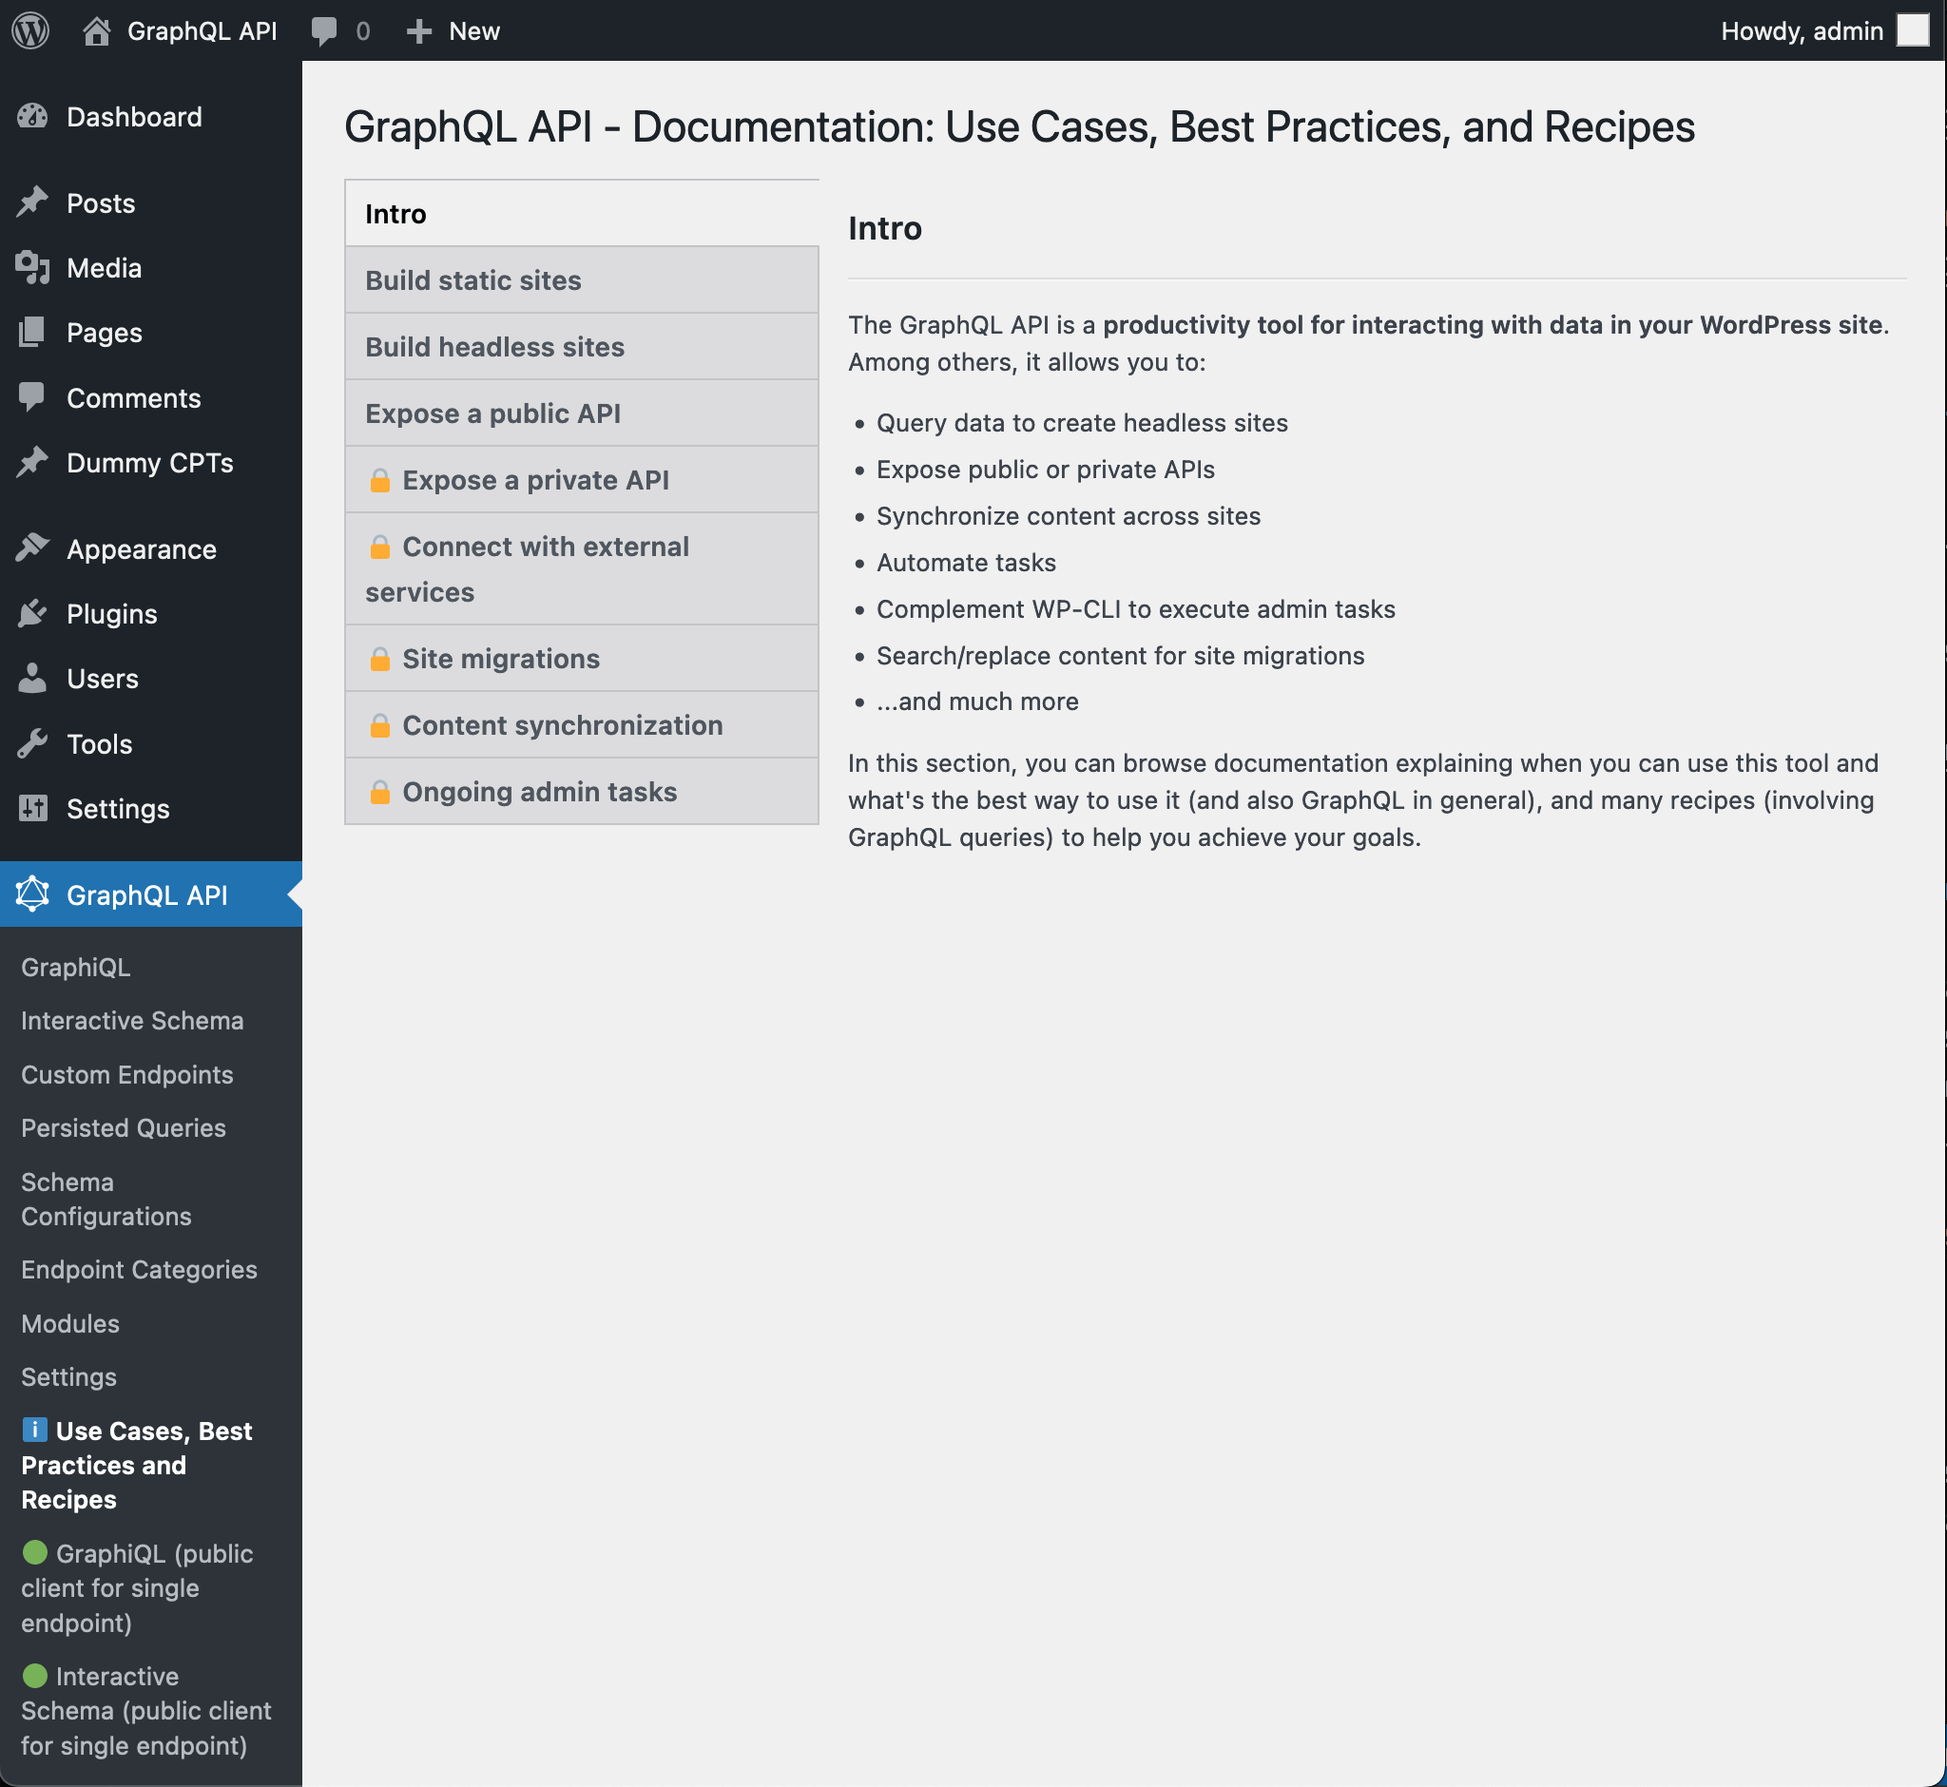
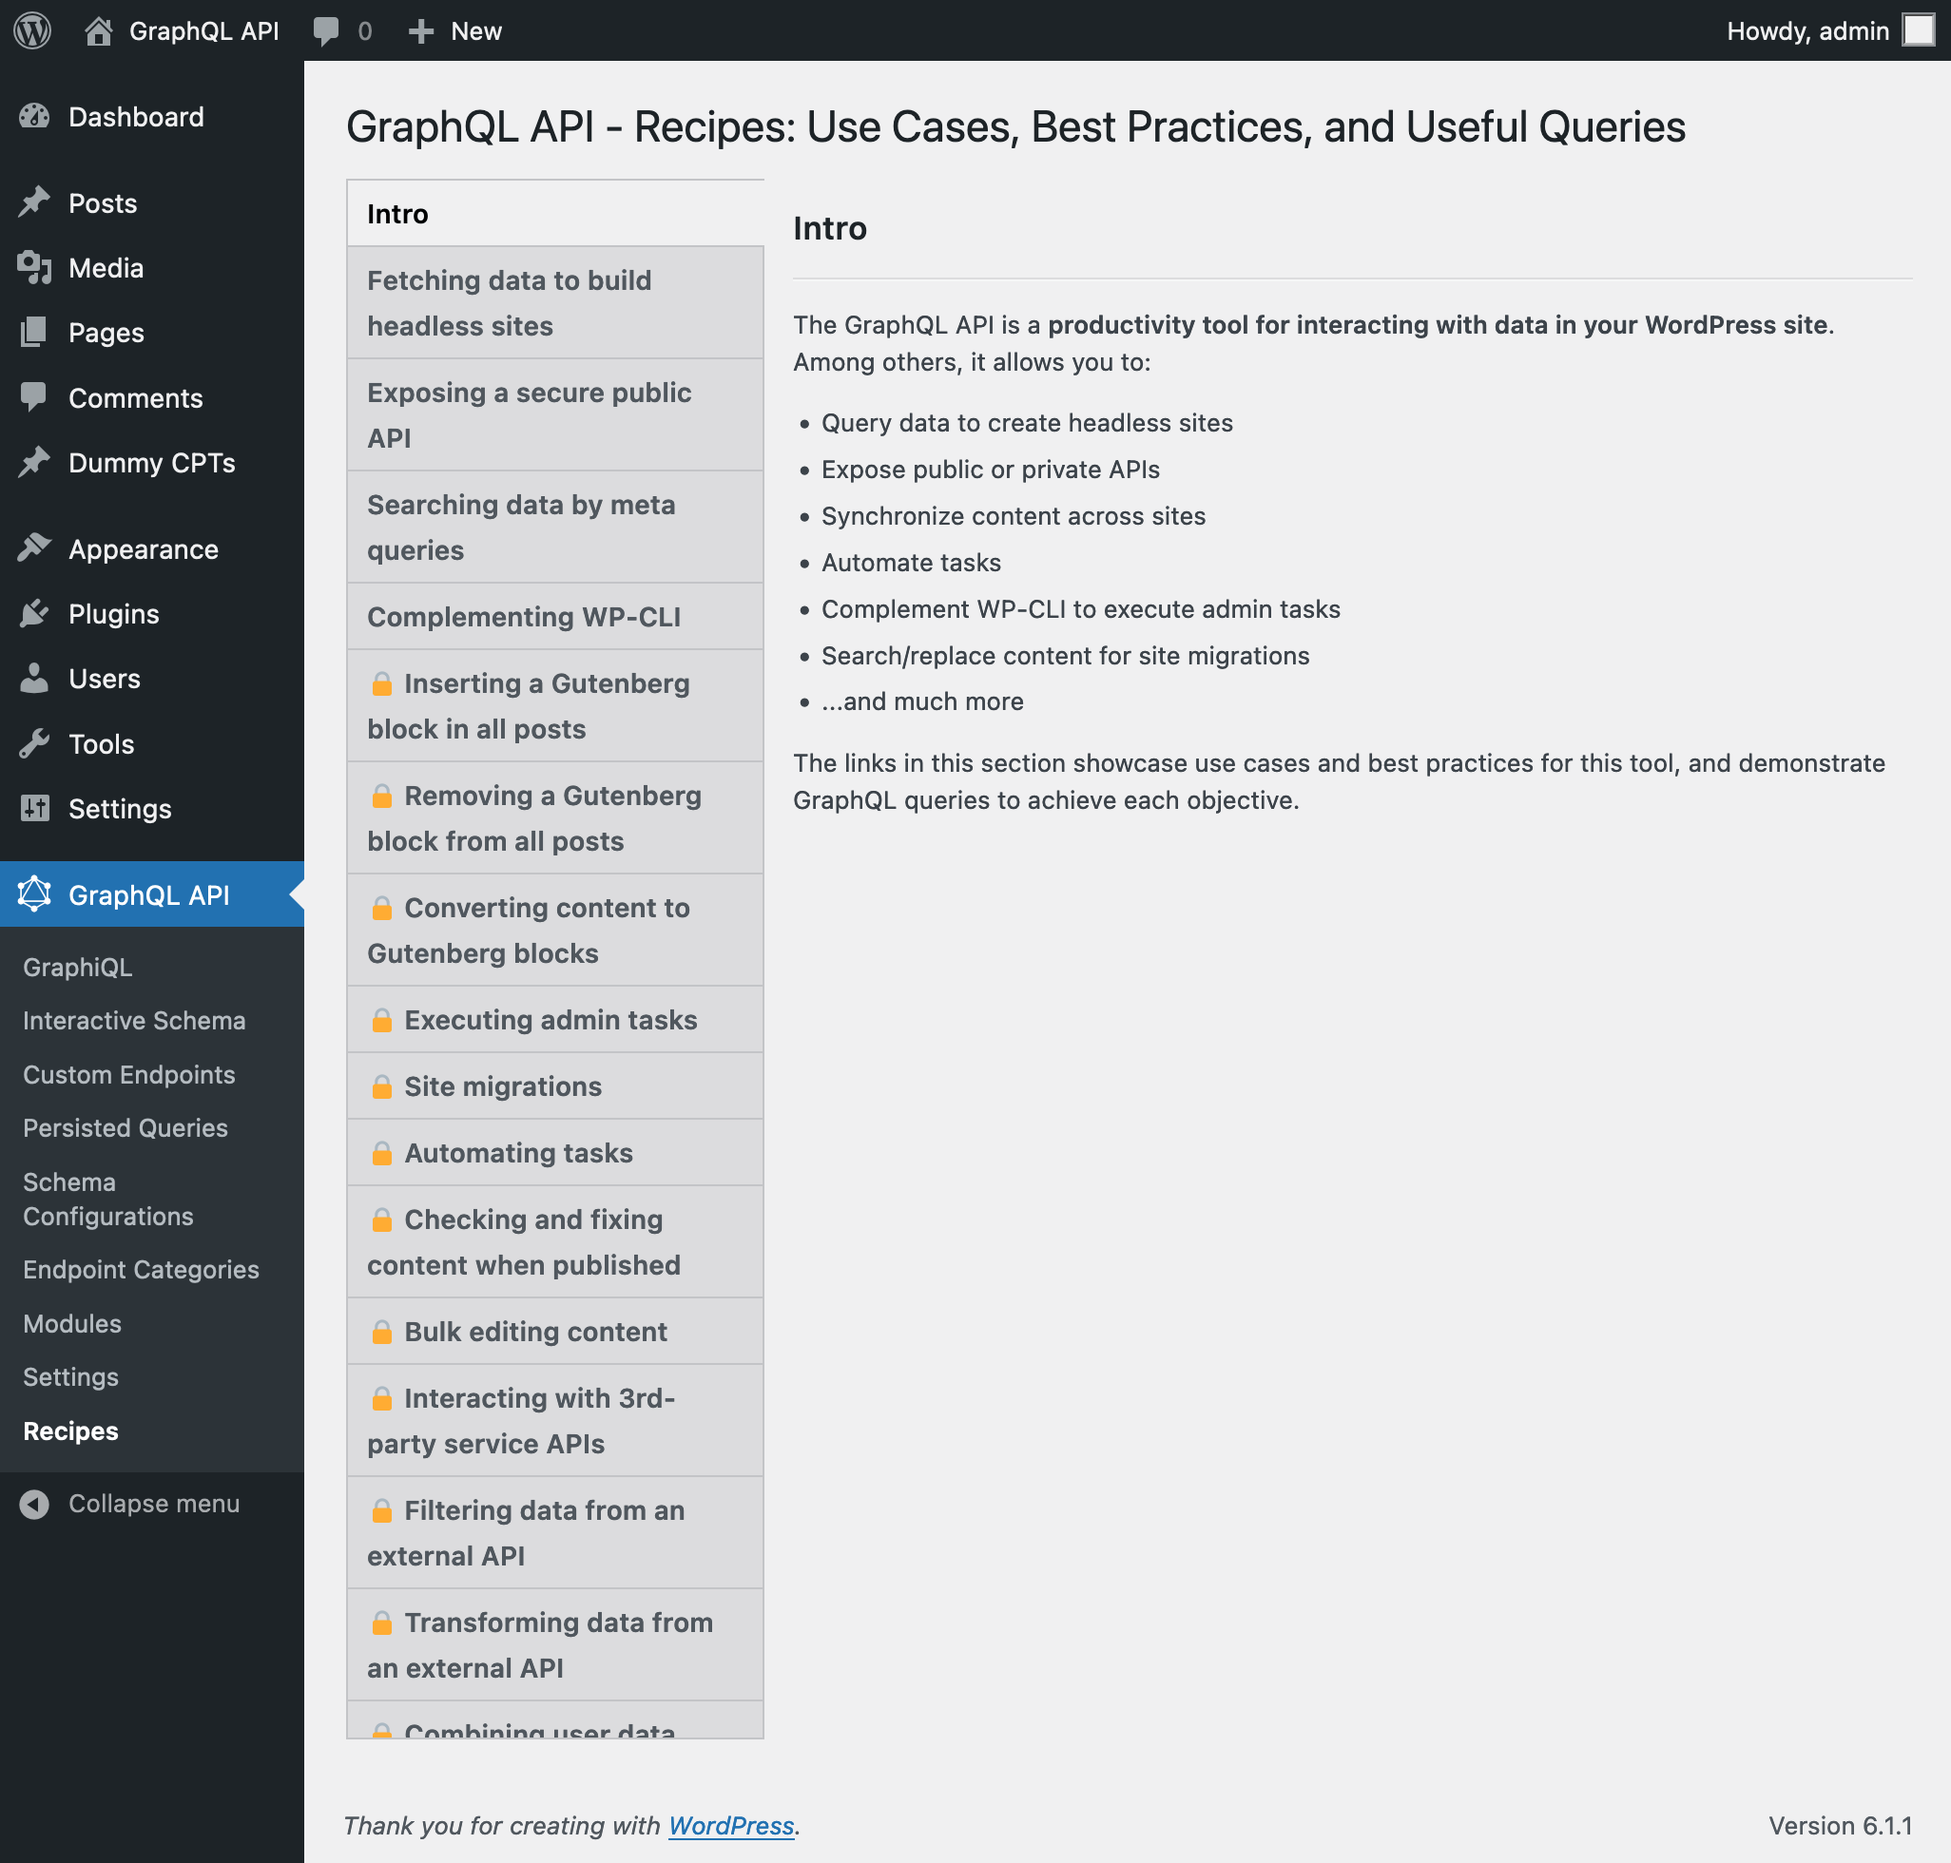
Merge pull request #2110 from leoloso/Create-list-of-all-recipes
Create list of all recipes

diff --git a/src/Services/MenuPages/RecipesMenuPage.php b/src/Services/MenuPages/RecipesMenuPage.php
@@ -34,23 +34,111 @@ class RecipesMenuPage extends AbstractDocsMenuPage
                 'Intro',
             ],
             [
-                'sample-recipe-1',
-                'Sample Recipe 1',
+                'fetching-data-to-build-headless-sites',
+                'Fetching data to build headless sites',
             ],
             [
-                'sample-recipe-2',
-                'Sample Recipe 2',
+                'exposing-a-secure-public-api',
+                'Exposing a secure public API',
             ],
             [
-                'sample-recipe-3',
-                'Sample Recipe 3',
+                'searching-data-by-meta-queries',
+                'Searching data by meta queries',
+            ],
+            [
+                'complementing-wp-cli',
+                'Complementing WP-CLI',
+            ],
+            [
+                'inserting-a-gutenberg-block-in-all-posts',
+                'Inserting a Gutenberg block in all posts',
                 true,
             ],
             [
-                'sample-recipe-4',
-                'Sample Recipe 4',
+                'removing-a-gutenberg-block-from-all-posts',
+                'Removing a Gutenberg block from all posts',
                 true,
             ],
+            [
+                'converting-content-to-gutenberg-blocks',
+                'Converting content to Gutenberg blocks',
+                true,
+            ],
+            [
+                'executing-admin-tasks',
+                'Executing admin tasks',
+                true,
+            ],
+            [
+                'site-migrations',
+                'Site migrations',
+                true,
+            ],
+            [
+                'automating-tasks',
+                'Automating tasks',
+                true,
+            ],
+            [
+                'checking-and-fixing-content-when-published',
+                'Checking and fixing content when published',
+                true,
+            ],
+            [
+                'bulk-editing-content',
+                'Bulk editing content',
+                true,
+            ],
+            [
+                'interacting-with-3rd-party-service-apis',
+                'Interacting with 3rd-party service APIs',
+                true,
+            ],
+            [
+                'filtering-data-from-an-external-api',
+                'Filtering data from an external API',
+                true,
+            ],
+            [
+                'transforming-data-from-an-external-api',
+                'Transforming data from an external API',
+                true,
+            ],
+            [
+                'combining-user-data-from-different-systems',
+                'Combining user data from different systems',
+                true,
+            ],
+            [
+                'importing-a-post-from-another-site',
+                'Importing a post from another site',
+                true,
+            ],
+            [
+                'importing-multiple-posts-at-once-from-another-site',
+                'Importing multiple posts at once from another site',
+                true,
+            ],
+            [
+                'synchronizing-content-across-wordpress-sites',
+                'Synchronizing content across WordPress sites',
+                true,
+            ],
+            [
+                'retrieving-and-downloading-github-artifacts',
+                'Retrieving and downloading GitHub Artifacts',
+                true,
+            ],
+            [
+                'reverting-mutations-in-case-of-error',
+                'Reverting mutations in case of error',
+                true,
+            ],
+            [
+                'using-the-graphql-server-without-wordpress',
+                'Using the GraphQL server without WordPress',
+                true,
+            ],            
         ];
         // By default, focus on the first recipe
         $activeRecipeName = $recipeEntries[0][0];

diff --git a/docs/recipes/intro/en.md b/docs/recipes/intro/en.md
@@ -10,6 +10,4 @@ The GraphQL API is a **productivity tool for interacting with data in your WordP
 - Search/replace content for site migrations
 - ...and much more
 
-Click on the links in this section to learn about use cases for this tool and several best practices (including for GraphQL in general).
-
-Whenever appropriate, GraphQL queries (and additional PHP code, setups, integrations and others) are included; copy/paste them in your own persisted queries, to help you achieve your goals faster.
+The links in this section showcase use cases and best practices for this tool, and demonstrate GraphQL queries to achieve each objective.

diff --git a/docs-pro/recipes/importing-multiple-posts-at-once-from-another-site/en.md b/docs-pro/recipes/importing-multiple-posts-at-once-from-another-site/en.md
@@ -1,0 +1,1 @@
+# Importing multiple posts at once from another site

diff --git a/docs-pro/recipes/synchronizing-content-across-wordpress-sites/en.md b/docs-pro/recipes/synchronizing-content-across-wordpress-sites/en.md
@@ -1,0 +1,1 @@
+# Synchronizing content across WordPress sites

diff --git a/docs-pro/recipes/retrieving-and-downloading-github-artifacts/en.md b/docs-pro/recipes/retrieving-and-downloading-github-artifacts/en.md
@@ -1,0 +1,1 @@
+# Retrieving and downloading GitHub Artifacts

diff --git a/docs-pro/recipes/checking-and-fixing-content-when-published/en.md b/docs-pro/recipes/checking-and-fixing-content-when-published/en.md
@@ -1,0 +1,1 @@
+# Checking and fixing content when published

diff --git a/docs-pro/recipes/combining-user-data-from-different-systems/en.md b/docs-pro/recipes/combining-user-data-from-different-systems/en.md
@@ -1,0 +1,1 @@
+# Combining user data from different systems

diff --git a/docs-pro/recipes/using-the-graphql-server-without-wordpress/en.md b/docs-pro/recipes/using-the-graphql-server-without-wordpress/en.md
@@ -1,0 +1,1 @@
+# Using the GraphQL server without WordPress

diff --git a/docs-pro/recipes/removing-a-gutenberg-block-from-all-posts/en.md b/docs-pro/recipes/removing-a-gutenberg-block-from-all-posts/en.md
@@ -1,0 +1,1 @@
+# Removing a Gutenberg block from all posts

diff --git a/docs-pro/recipes/inserting-a-gutenberg-block-in-all-posts/en.md b/docs-pro/recipes/inserting-a-gutenberg-block-in-all-posts/en.md
@@ -1,0 +1,1 @@
+# Inserting a Gutenberg block in all posts

diff --git a/docs-pro/recipes/interacting-with-3rd-party-service-apis/en.md b/docs-pro/recipes/interacting-with-3rd-party-service-apis/en.md
@@ -1,0 +1,1 @@
+# Interacting with 3rd-party service APIs

diff --git a/docs-pro/recipes/converting-content-to-gutenberg-blocks/en.md b/docs-pro/recipes/converting-content-to-gutenberg-blocks/en.md
@@ -1,0 +1,1 @@
+# Converting content to Gutenberg blocks
